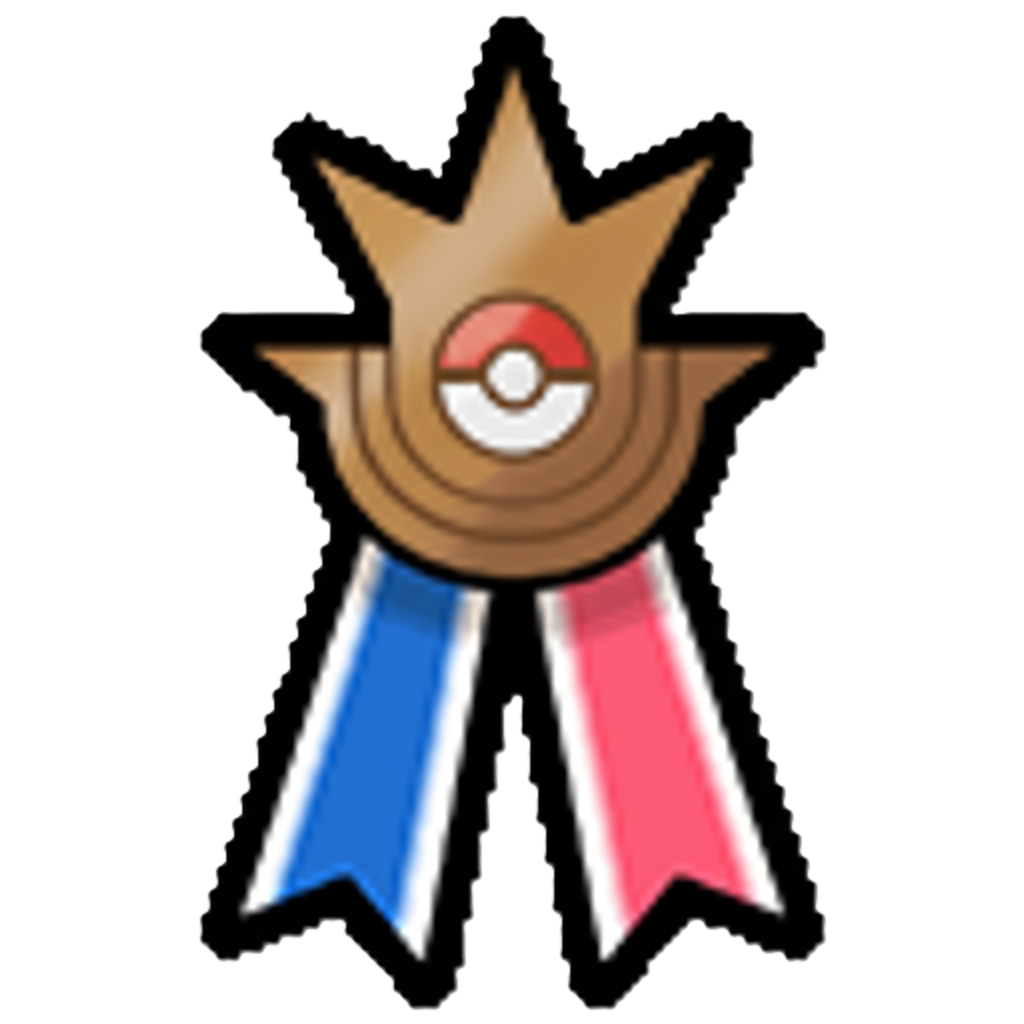
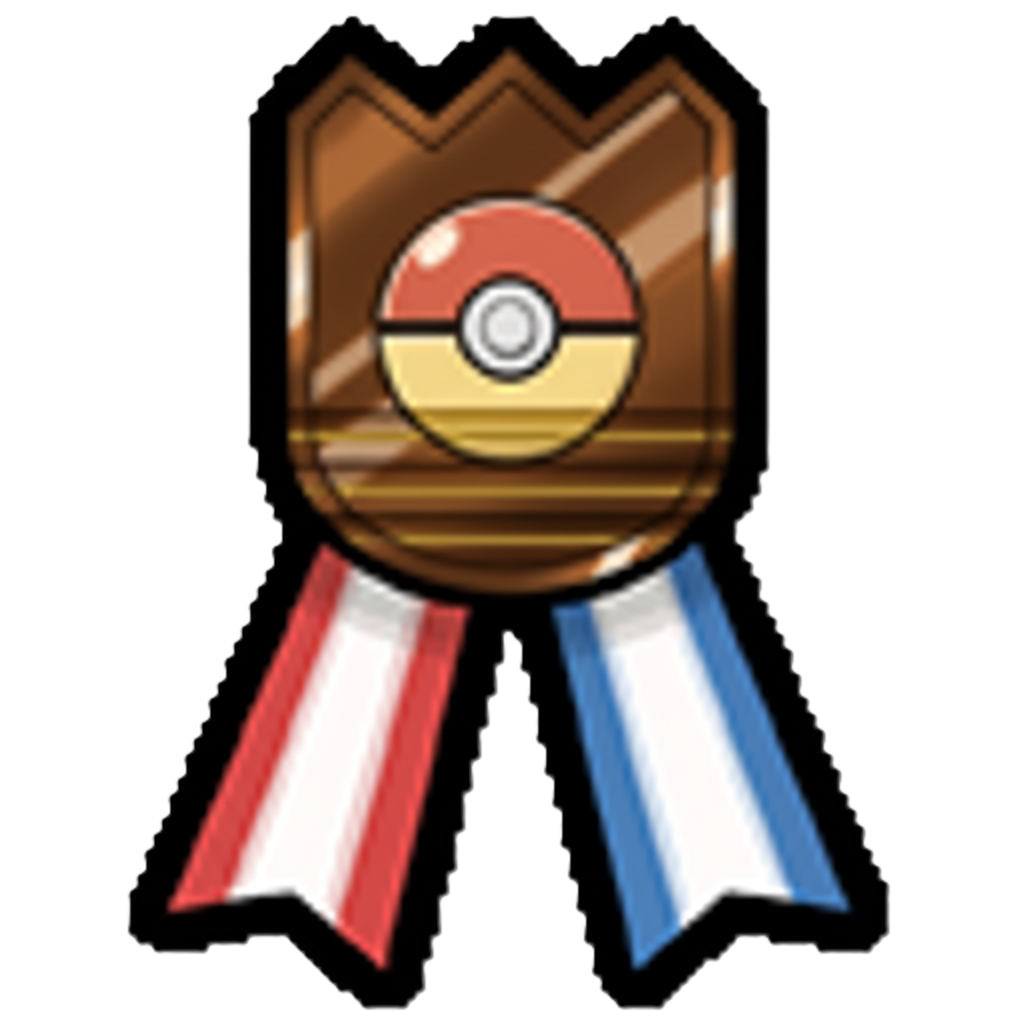
Trofei: una coppa per tipo (league, monoformat, randomize, cup) in pagina pubblica e Trainers; League Champion su tutte le stagioni ufficiali, immagini scambiate con Clean Streak

diff --git a/docs/players.html b/docs/players.html
@@ -26,6 +26,7 @@
 <script src="sfide.js"></script>
 <script src="amichevoli.js"></script>
 <script src="titoli.js"></script>
+<script src="tipo-stagione.js"></script>
 <script src="statistiche.js"></script>
 <script src="fiocchi.js"></script>
 <script src="badge-team.js"></script>
@@ -258,6 +259,10 @@ async function initTrainersPage() {
             return;
         }
 
+        // i trofei di ogni allenatore (league, monoformat, randomize, cup): le info delle stagioni chiuse, una lettura per pagina
+        let infoStagioni = null;
+        try { if (window.TipoStagione) infoStagioni = await TipoStagione.leggiInfo(db); } catch (e) { console.warn('Trophies not available:', e); }
+
         const playersList = [];
         for (let key in playersData) {
             const player = playersData[key];
@@ -292,6 +297,7 @@ async function initTrainersPage() {
                 ranking: indStats.ranking !== undefined ? Number(indStats.ranking) : 0,
                 classificato: Number(indStats.showdownsPlayed || 0) >= Statistiche.MIN_SD_CLASSIFICA,   // meno showdown: unranked, N/A
                 trophiesWon: trophiesWon,
+                trofei: infoStagioni ? TipoStagione.raggruppa(TipoStagione.trofei(infoStagioni, key)) : [],
                 badgesHTML: generaHTMLBadge(statsBadges, key) + badgeAllenatoreHTML
             });
         }
@@ -302,12 +308,24 @@ async function initTrainersPage() {
         gridContainer.innerHTML = playersList.map((player, index) => {
             const randomRotation = (Math.random() * 2 - 1).toFixed(2);
             
-            const htmlTrofeati = player.trophiesWon > 0 
-                ? `<div class="trainer-card-trophy" title="Seasons">
+            // una coppa per tipo (league, monoformat, randomize, cup) con il suo numero; al passaggio: quale e quando
+            const dataIt = iso => { const p = String(iso || '').split('-'); return p.length === 3 ? `${p[2]}/${p[1]}/${p[0]}` : 'N/D'; };
+            const esc = t => String(t == null ? '' : t).replace(/[&<>"']/g, c => ({ '&': '&amp;', '<': '&lt;', '>': '&gt;', '"': '&quot;', "'": '&#39;' }[c]));
+            const htmlTrofeati = player.trofei.length
+                ? player.trofei.map(g => {
+                    const titolo = `${g.etichetta}\n` + g.vittorie.map(v => `${v.nome} · ${dataIt(v.data)}`).join('\n');
+                    const icona = g.tipo === 'league' ? 'immagini/season-winner-color.png' : (g.icona || '');
+                    return `<div class="trainer-card-trophy trofeo-${g.tipo}" title="${esc(titolo)}">
+                        <img src="${esc(icona)}" class="trophy-icon" alt="${esc(g.etichetta)}" onerror="this.onerror=null;this.src='immagini/season-winner-color.png';this.classList.add('trophy-segnaposto')">
+                        <span class="trophy-count">x${g.conteggio}</span>
+                       </div>`;
+                }).join('')
+                : (player.trophiesWon > 0
+                    ? `<div class="trainer-card-trophy" title="Seasons">
                     <img src="immagini/season-winner-color.png" class="trophy-icon" alt="Trophy">
                     <span class="trophy-count">x${player.trophiesWon}</span>
-                   </div>` 
-                : '';
+                   </div>`
+                    : '');
 
             // il tasto per la partita amichevole sta accanto alla card (non dentro: con i badge sarebbe troppo piena)
             return `

diff --git a/docs/public-card.js b/docs/public-card.js
@@ -363,7 +363,46 @@
 
     // ---- Trofei e medaglie --------------------------------------------------------------------
 
+    // La data di una vittoria ("2026-09-30") come si scrive in Italia
+    const dataIt = iso => { const p = String(iso || '').split('-'); return p.length === 3 ? `${p[2]}/${p[1]}/${p[0]}` : 'N/D'; };
+
+    // Una coppa: l'immagine del tipo (PNG da caricare) o, finché manca, la coppa della league nel colore del tipo; quella della league
+    // è colorata con il colore dell'allenatore. Il fumetto dice di che coppa si tratta e, per ogni vittoria, quale e quando.
+    function costruisciCoppa(gruppo) {
+        const info = (window.TipoStagione && window.TipoStagione.TIPI[gruppo.tipo]) || {};
+        const colore = (colorePredefinito, mascheraUrl) => {
+            const c = h('div', { class: 'pp-coppa-colore' });
+            c.style.setProperty('-webkit-mask-image', `url('${mascheraUrl}')`);
+            c.style.setProperty('mask-image', `url('${mascheraUrl}')`);
+            if (colorePredefinito) c.style.setProperty('background-color', colorePredefinito);
+            return c;
+        };
+        const lega = (segnaposto) => [
+            colore(segnaposto, 'immagini/season-winner-color.png'),
+            h('img', { class: 'pp-coppa-img', src: 'immagini/season-winner.png', alt: '', decoding: 'async' })];
+        const immagini = gruppo.tipo === 'league'
+            ? lega(null)
+            : [h('img', {
+                class: 'pp-coppa-img', src: gruppo.icona || info.icona || '', alt: '', decoding: 'async',
+                onerror: ev => { const coppa = ev.target.parentNode; coppa.classList.add('pp-segnaposto'); ev.target.replaceWith(...lega(info.segnaposto || '#ccc')); }
+            })];
+        const MAX_RIGHE = 8;
+        const righe = gruppo.vittorie.slice(0, MAX_RIGHE).map(v => h('span', { class: 'pp-tip-riga' },
+            h('span', { testo: `🏆 ${v.nome}` }), h('span', { class: 'pp-tip-obiettivo', testo: dataIt(v.data) })));
+        if (gruppo.vittorie.length > MAX_RIGHE) righe.push(h('span', { class: 'pp-tip-testo', testo: `+${gruppo.vittorie.length - MAX_RIGHE} more: see the Trophy Archive` }));
+        const tip = h('span', { class: 'neubrutal-tooltip pp-tip' }, h('span', { class: 'pp-tip-nome', testo: gruppo.etichetta.toUpperCase() }), righe);
+        return h('div', { class: `pp-coppa-gruppo pp-tipo-${gruppo.tipo}` },
+            h('div', { class: 'pp-coppa pp-tip-host', tabindex: '0' }, ...immagini, tip),
+            h('span', { class: 'pp-coppa-conto', testo: `x${gruppo.conteggio}` }));
+    }
+
     function costruisciTrofei(d) {
+        // i trofei di tutte le coppe vinte (league, monoformat, randomize, cup), raggruppati per tipo (tipo-stagione.js)
+        if (Array.isArray(d.trofei) && d.trofei.length) {
+            return blocco('trofei', 'pp-trofei pp-trofei-gruppi',
+                h('span', { class: 'pp-chip', testo: 'TROPHIES' }),
+                h('div', { class: 'pp-coppe' }, d.trofei.map(costruisciCoppa)));
+        }
         const stagioni = d.stagioni || {};
         // il numero è quello dei badge (calcolato dalla classifica di ogni stagione chiusa): se la pagina non lo ha, il contatore salvato nel profilo
         const calcolate = d.stagioniVinte && Number.isFinite(Number(d.stagioniVinte.conteggio)) ? d.stagioniVinte : null;

diff --git a/test/badge-allenatore.test.js b/test/badge-allenatore.test.js
@@ -129,7 +129,7 @@ test('immagini: dodici badge × tre livelli, tutti badge-allenatore-<id>-<livell
 });
 
 test('HTML: scaffale con tutti i badge, medagliette dei più alti, testi sicuri', () => {
-    const l = BA.calcola(risultato(giocatore({ match: { giocati: 130, vinti: 100, persi: 30 }, stagioniVinte: 2 })), 'didi');
+    const l = BA.calcola(risultato(giocatore({ match: { giocati: 130, vinti: 100, persi: 30 }, stagioniVinte: 3 })), 'didi');
     const scaffale = BA.htmlScaffale(l);
     assert.match(scaffale, /TRAINER BADGES <small class="bt-conto">2\/12<\/small>/);
     assert.equal((scaffale.match(/class="bt bt-/g) || []).length, 12);
@@ -165,16 +165,16 @@ test('i badge dei team non cambiano: stesso catalogo, stesse soglie, stessi file
 
 test('scheda per il profilo: livelli, numeri, barra e cosa manca, come nelle schede dei badge delle serie', () => {
     const l = BA.calcola(risultato(giocatore({
-        stagioniVinte: 2, stagioniGiocate: 0, eloPicco: 1240, percMatch: 91, match: { giocati: 12, vinti: 11, persi: 1 }, showdown: { vinti: 70 }
+        stagioniVinte: 3, stagioniGiocate: 0, eloPicco: 1240, percMatch: 91, match: { giocati: 12, vinti: 11, persi: 1 }, showdown: { vinti: 70 }
     })), 'didi');
     const s = id => BA.scheda(per(l, id));
 
     // un badge a metà strada: bronzo preso, argento in vista
     const c = s('champion');
-    assert.deepEqual(c.livelli.map(x => [x.nome, x.soglia, x.stato]), [['Bronze', '2', 'done'], ['Silver', '3', 'next'], ['Gold', '5', '']]);
-    assert.deepEqual(c.numeri, [['Level', 'Bronze'], ['Now', '2']]);
-    assert.deepEqual(c.barra, { etichetta: 'Seasons won', valore: 2, obiettivo: 3, partenza: 0, suffisso: '' });
-    assert.equal(c.frase, '1 more to unlock Silver.');
+    assert.deepEqual(c.livelli.map(x => [x.nome, x.soglia, x.stato]), [['Bronze', '3', 'done'], ['Silver', '5', 'next'], ['Gold', '8', '']]);
+    assert.deepEqual(c.numeri, [['Level', 'Bronze'], ['Now', '3']]);
+    assert.deepEqual(c.barra, { etichetta: 'Seasons won', valore: 3, obiettivo: 5, partenza: 0, suffisso: '' });
+    assert.equal(c.frase, '2 more to unlock Silver.');
     assert.equal(c.classe, 'bronze');
     assert.equal(c.bloccato, false);
     assert.equal(c.immagine, 'immagini/badge-allenatore-champion-bronze.png');

diff --git a/docs/tipo-stagione.js b/docs/tipo-stagione.js
@@ -39,11 +39,13 @@
 
     const BETA = 'sbeta';
     const TIPI = {
-        league:     { id: 'league',     etichetta: "Sant'Alvise League",              base: "Sant'Alvise",                       icona: 'immagini/season-winner-color.png', statistica: true,  trofeo: true },
-        monoformat: { id: 'monoformat', etichetta: 'Martiri di Marzabotto Memorial',  base: 'Martiri di Marzabotto Memorial',    icona: 'immagini/coppa-monoformat.png',    statistica: true,  trofeo: true },
-        random:     { id: 'random',     etichetta: 'Friuli DOC',                      base: 'Friuli DOC',                        icona: 'immagini/coppa-random.png',        statistica: true,  trofeo: true },
-        cup:        { id: 'cup',        etichetta: 'Cup',                             base: '',                                  icona: 'immagini/coppa-cup.png',           statistica: false, trofeo: true }
+        league:     { id: 'league',     etichetta: "Sant'Alvise League",              base: "Sant'Alvise",                       icona: 'immagini/season-winner.png',   statistica: true,  trofeo: true, segnaposto: null },
+        monoformat: { id: 'monoformat', etichetta: 'Martiri di Marzabotto Memorial',  base: 'Martiri di Marzabotto Memorial',    icona: 'immagini/coppa-monoformat.png', statistica: true,  trofeo: true, segnaposto: '#f4b942' },
+        random:     { id: 'random',     etichetta: 'Friuli DOC',                      base: 'Friuli DOC',                        icona: 'immagini/coppa-random.png',     statistica: true,  trofeo: true, segnaposto: '#4cc9a4' },
+        cup:        { id: 'cup',        etichetta: 'Cup',                             base: '',                                  icona: 'immagini/coppa-cup.png',        statistica: false, trofeo: true, segnaposto: '#e8685a' }
     };
+    // La coppa della league è l'immagine di sempre (colorata con il colore dell'allenatore). Le altre sono PNG da caricare
+    // (immagini/coppa-<tipo>.png, anche l'icona scelta per una cup): finché mancano, al loro posto c'è la coppa della league nel colore `segnaposto`.
     const ORDINE = ['league', 'monoformat', 'random', 'cup'];
 
     // Cosa fissa ogni tipo nella creazione di una stagione (admin.html):

diff --git a/docs/style-public-card.css b/docs/style-public-card.css
@@ -1392,3 +1392,19 @@ body.pp-fisso .pp-eq { height: 22px; }
 
 /* l'icona della personalità è l'oggetto (PNG), grande come il testo della targhetta */
 .pp-targa-personalita .pers-icona { width: 1.7em; height: 1.7em; margin: -0.35em 0.1em -0.35em -0.2em; vertical-align: middle; object-fit: contain; image-rendering: auto; }
+
+/* ---------- Più coppe: una per tipo (league, monoformat, randomize, cup), ognuna con il suo numero ---------- */
+.pp-trofei-gruppi { align-items: flex-start; }
+.pp-coppe { display: flex; flex-wrap: wrap; gap: 14px 16px; align-items: flex-start; justify-content: center; max-width: 100%; }
+.pp-coppa-gruppo { display: flex; flex-direction: column; align-items: center; gap: 6px; }
+.pp-coppa-gruppo .pp-coppa { width: 64px; height: 64px; }
+.pp-coppa-gruppo .pp-coppa-conto { font-size: 1.05rem; padding: 0 8px; border-width: 2px; box-shadow: 2px 2px 0 #000; }
+.pp-tip .pp-tip-nome + .pp-tip-riga { margin-top: 2px; }
+body.pp-fisso .pp-trofei.pp-trofei-gruppi { display: flex; flex-direction: column; align-items: center; justify-content: center; gap: 8px; }
+body.pp-fisso .pp-trofei.pp-trofei-gruppi > .pp-chip { align-self: flex-start; }
+body.pp-fisso .pp-coppa-gruppo .pp-coppa { width: 52px; height: 52px; }
+
+/* finché mancano le PNG delle altre coppe, la coppa della league cambia tinta: monoformat blu, randomize verde, cup rossa */
+.pp-tipo-monoformat .pp-segnaposto .pp-coppa-img { filter: hue-rotate(170deg) saturate(1.3); }
+.pp-tipo-random .pp-segnaposto .pp-coppa-img { filter: hue-rotate(80deg) saturate(1.2); }
+.pp-tipo-cup .pp-segnaposto .pp-coppa-img { filter: hue-rotate(-40deg) saturate(1.5); }

diff --git a/docs/public.html b/docs/public.html
@@ -34,6 +34,7 @@
     <script src="personalita.js"></script>
     <script src="personalita-grafico.js"></script>
     <script src="pagina-pubblica.js"></script>
+    <script src="tipo-stagione.js"></script>
     <script src="public-card.js"></script>
 </head>
 <body class="pg-public">
@@ -432,6 +433,12 @@ async function initPublicProfile() {
             }
         } catch (e) { console.warn('Personality not available:', e); }
 
+        // i trofei: tutte le stagioni e le cup chiuse vinte (le info di ogni stagione, non le stagioni intere), raggruppati per tipo
+        let trofei = null;
+        try {
+            if (window.TipoStagione) trofei = TipoStagione.raggruppa(TipoStagione.trofei(await TipoStagione.leggiInfo(db), playerKey));
+        } catch (e) { console.warn('Trophies not available:', e); }
+
         PublicCard.monta({
             chiave: playerKey,
             nome,
@@ -442,6 +449,7 @@ async function initPublicProfile() {
             personalita,
             stagioni: stagioni || {},
             stagioniVinte,
+            trofei,
             tipi: tipi || {},
             pokemon: pokemon || {},
             teams,

diff --git a/docs/badge-allenatore.js b/docs/badge-allenatore.js
@@ -36,8 +36,8 @@
     // Catalogo. Il "contesto" di un allenatore: { g: players[i], specie: n. specie portate in campo, team: n. team giocati }
     // -----------------------------------------------------
     const CATALOGO = [
-        { id: 'champion', nome: 'League Champion', icona: '👑', unita: 'seasons won', soglie: [2, 3, 5],
-          descrizione: 'Seasons of the league won.',
+        { id: 'champion', nome: 'League Champion', icona: '👑', unita: 'seasons won', soglie: [3, 5, 8],
+          descrizione: 'Official seasons won: Sant\'Alvise League, Monoformat and Randomize (cups do not count).',
           valore: c => num(c.g.stagioniVinte), immagini: tre('badge-allenatore-champion-{l}.png') },
         { id: 'veteran', nome: 'Veteran', icona: '🎖', unita: 'seasons played', soglie: [3, 8, 15],
           descrizione: 'Seasons of the league played.',

diff --git a/test/stagioni-vinte.test.js b/test/stagioni-vinte.test.js
@@ -80,7 +80,7 @@ test('BadgeAllenatore.carica restituisce le stagioni vinte come le contano i bad
 test('la pagina pubblica e la lista Trainers usano quel numero; il contatore del profilo è solo il ripiego', () => {
     const pub = docs('public.html');
     assert.match(pub, /if \(r\.dati\) stagioniVinte = \{ conteggio: r\.stagioniVinte, elenco: r\.elencoStagioniVinte \};/);
-    assert.match(pub, /stagioniVinte,\s*\n\s*tipi: tipi \|\| \{\}/);
+    assert.match(pub, /stagioniVinte,\s*\n\s*trofei,\s*\n\s*tipi: tipi \|\| \{\}/);
     const card = docs('public-card.js');
     assert.match(card, /const conteggio = calcolate \? Number\(calcolate\.conteggio\) : \(Number\(stagioni\.won\) \|\| 0\);/);
 

diff --git a/test/tipo-stagione.test.js b/test/tipo-stagione.test.js
@@ -58,7 +58,7 @@ test('trofei: le stagioni e le cup chiuse vinte dal giocatore (la beta e le stag
     assert.equal(t[0].nome, 'Christmas Cup');
     assert.equal(t[0].data, '2026-12-24');
     assert.equal(t[0].icona, 'immagini/coppe/natale.png', 'una cup può avere la sua icona');
-    assert.equal(t[1].icona, 'immagini/season-winner-color.png');
+    assert.equal(t[1].icona, 'immagini/season-winner.png');
     assert.deepEqual(T.trofei(STAGIONI, 'lu').map(x => x.nome), ['Friuli DOC I']);
     assert.deepEqual(T.trofei(STAGIONI, 'nessuno'), []);
     assert.deepEqual(T.trofei(STAGIONI, ''), []);

diff --git a/docs/style-players.css b/docs/style-players.css
@@ -972,3 +972,8 @@ body {
     padding: 2px 6px;
     white-space: nowrap;
 }
+/* le coppe di tipi diversi stanno una accanto all'altra; finché mancano le PNG delle altre coppe, la coppa della league cambia tinta */
+.trainer-card-trophy { margin-right: 10px; }
+.trofeo-monoformat .trophy-segnaposto { filter: hue-rotate(170deg) saturate(1.4) drop-shadow(1px 1px 0 #000); }
+.trofeo-random .trophy-segnaposto { filter: hue-rotate(80deg) saturate(1.3) drop-shadow(1px 1px 0 #000); }
+.trofeo-cup .trophy-segnaposto { filter: hue-rotate(-40deg) saturate(1.6) drop-shadow(1px 1px 0 #000); }
